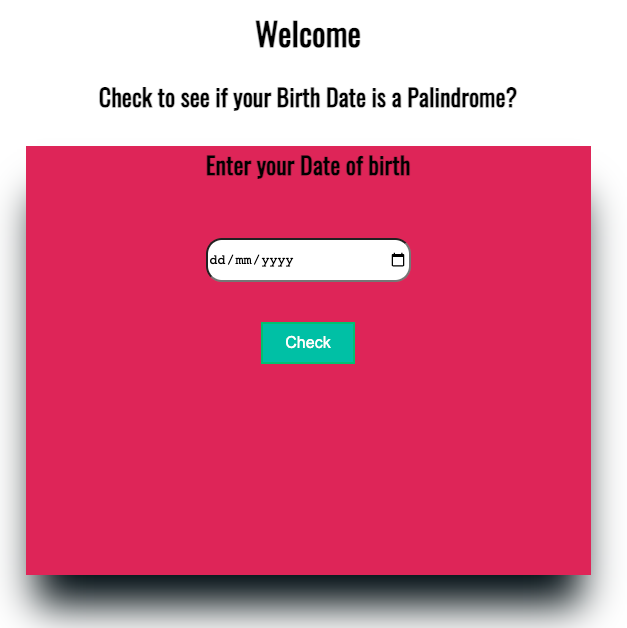
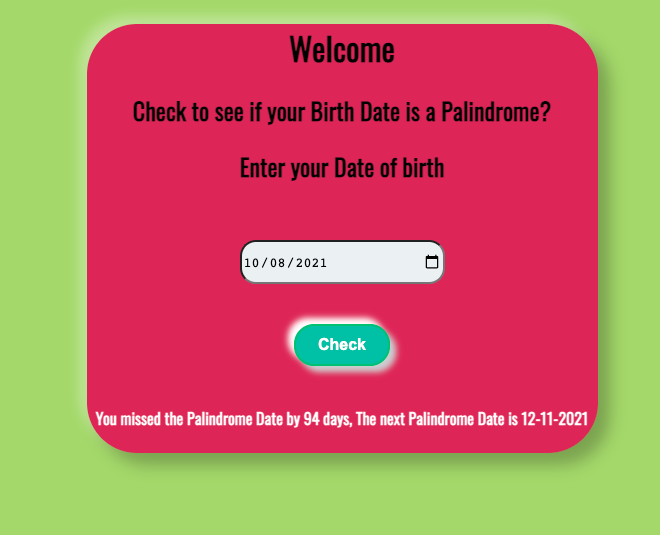
css changes

diff --git a/styles.css b/styles.css
@@ -1,10 +1,10 @@
 @import url("https://fonts.googleapis.com/css2?family=Oswald&display=swap");
 
 :root {
-  --primary-color: #ffffff;
+  --primary-color: #afd275;
   --secondary-color: #ce405f;
 }
-.body1 {
+body {
   background-color: var(--primary-color);
   background-repeat: no-repeat;
   background-position: center;
@@ -18,27 +18,6 @@ h1 {
 h2 {
   text-align: center;
 }
-.main-section {
-  position: absolute;
-  bottom: 5rem;
-  text-decoration: none;
-  white-space: nowrap;
-  margin-left: 40rem;
-  text-decoration: none;
-  text-align: center;
-  color: #111827;
-  border: 4px solid #f472b6;
-  padding: 10px 20px;
-  box-sizing: content-box;
-  width: 13%;
-  font-weight: bolder;
-  font-size: larger;
-}
-.main-section:hover {
-  color: white;
-  background-color: #60a5fa;
-  border: none;
-}
 .heading {
   text-align: center;
   font-weight: bolder;
@@ -46,11 +25,13 @@ h2 {
   margin-bottom: 2rem;
 }
 .body2 {
+  border-radius: 50px;
   text-align: center;
   margin: 2rem auto;
   max-width: 100%;
   height: auto;
-  box-shadow: 0 40px 40px -10px #000a0e;
+  box-shadow: 12px 12px 16px 0 rgba(0, 0, 0, 0.25),
+    -8px -8px 12px 0 rgba(255, 255, 255, 0.3);
   background-color: var(--secondary-color);
   min-height: 60vh;
   max-width: 50%;
@@ -61,6 +42,8 @@ h2 {
   margin: auto;
   width: 200px;
   height: 40px;
+  background: #ecf0f3;
+  /* box-shadow: inset 6px 6px 6px #cbced1, inset -6px -6px 6px white; */
   border-top-left-radius: 1rem;
   border-top-right-radius: 1rem;
   border-bottom-left-radius: 1rem;
@@ -78,13 +61,24 @@ h2 {
   color: #ffffff;
   font-size: 16px;
   cursor: pointer;
+  border-radius: 20px;
+  font-weight: 900;
+  box-shadow: 6px 6px 6px #cbced1, -6px -6px 6px white;
+  transition: 0.5s;
 }
 .checkBtn:hover {
   color: white;
   background-color: #93c5fd;
   border: none;
+  box-shadow: none;
 }
 .output {
   font-weight: bolder;
   color: #ffffff;
+}
+.h1 {
+  background-color: #a2ceb3;
+}
+.h2 {
+  background-color: #cabfee;
 }

diff --git a/index.html b/index.html
@@ -8,12 +8,10 @@
     <script src="https://kit.fontawesome.com/c9ffd32afb.js" crossorigin="anonymous"></script>
 
   </head>
-  <body class="body1">
-      <div class="main">
+  <body>
+      <div class="body2">
         <h1> Welcome </h1>
         <h2> Check to see if your Birth Date is a Palindrome?</h2>
-      </div>
-      <div class="body2">
         <div class="heading">Enter your Date of birth</div>
         <br />
         <input class="birthInput" type="date" /><br />
